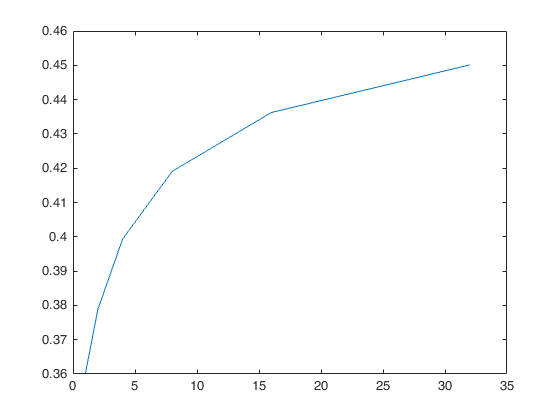
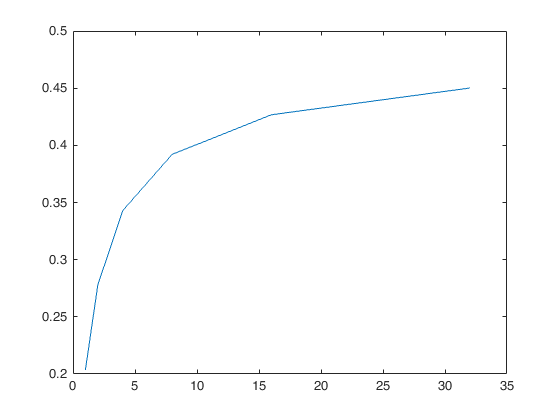
set gamm=3, correct analyticCoopE2

diff --git a/analyticCoopE2.m b/analyticCoopE2.m
@@ -2,12 +2,12 @@
 
 rho2 = zeros(6,1);
 
-eps1 = @(psi,lambda) 2*((cos(psi)).^2)./(pi*(lambda+4*((cos(psi)).^2)));
-eps2 = 1/(3*(lambda+1));
+eps1 = @(psi,lambda) 2*((cos(psi)).^2)./(pi*(lambda + 4*((cos(psi)).^2)));
+eps2 = @(lambda) 1/(3*(lambda+1));
 Lambda = [1,1/2,1/4,1/8,1/16,1/32];
 for i = 1:6
     lambda = Lambda(i);
-    rho2(i) =  integral(@(psi)eps1(psi,lambda),-pi/2,-pi/3) + integral(@(psi)eps1(psi,lambda),pi/3,pi/2) + eps2;
+    rho2(i) =  integral(@(psi)eps1(psi,lambda),-pi/2,-pi/3) + integral(@(psi)eps1(psi,lambda),pi/3,pi/2) + eps2(lambda);
 end
 plot(1./Lambda,rho2)
 

diff --git a/rates.m b/rates.m
@@ -15,7 +15,7 @@ for j = 1:10
 %     Psm2 = beta2*Psm;
     Pr = Ps;
     Prm = Pr/alpha2;
-    gamma = 2; % pathloss exponent
+    gamma = 3; % pathloss exponent
     Pnoise = 1;
     p4 = au; 
     p5 = relays;
